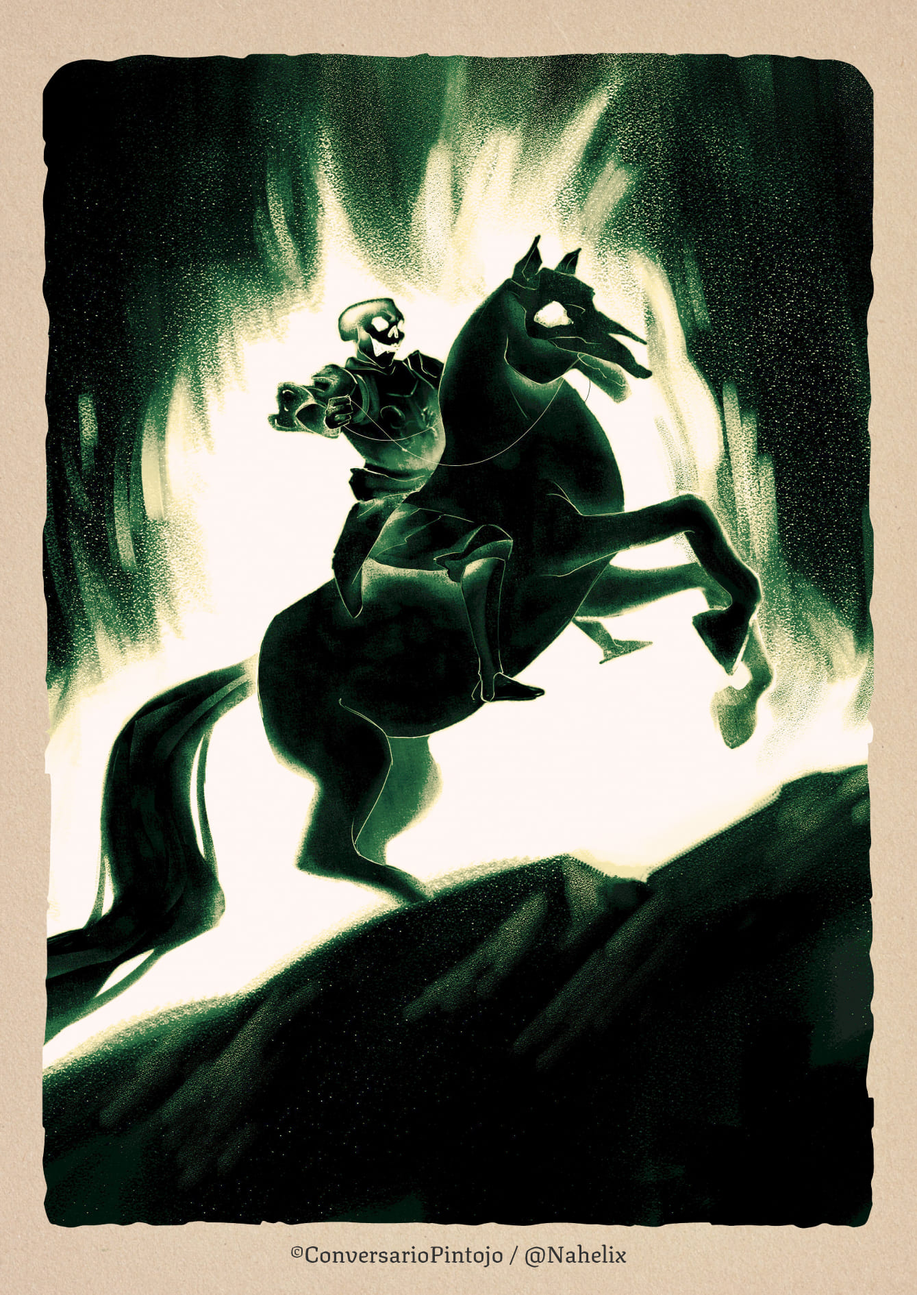
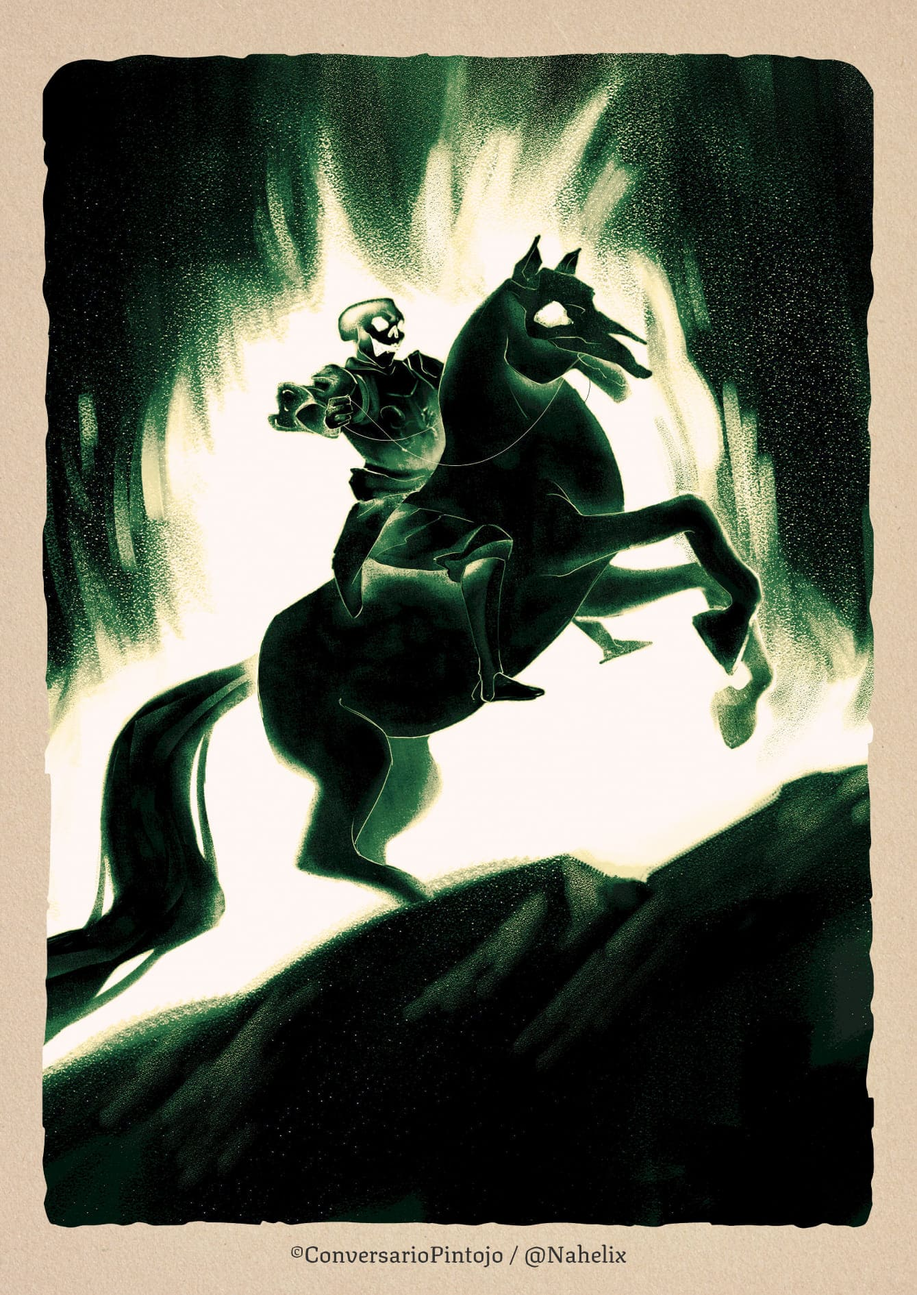
deck thumb imgs

diff --git a/script.js b/script.js
@@ -288,7 +288,7 @@ function renderPile(pile, title, titleClass) {
         $('#deck-modal-empty').addClass('d-none');
         pile.forEach((c, i) => {
             $container.append(`
-                <img src="images/cards/${c.index}-front.jpg" class="hand-card-thumb" data-idx="${i}" alt="Carta ${c.index}">
+                <img src="images/cards/${c.index}-front-thumb.jpg" class="hand-card-thumb" data-idx="${i}" alt="Carta ${c.index}">
             `);
         });
         $('#deck-modal-cards .hand-card-thumb').off('click').on('click', function () {
